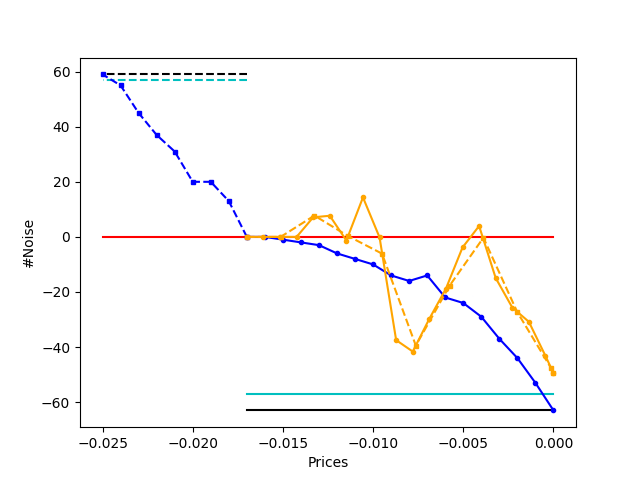
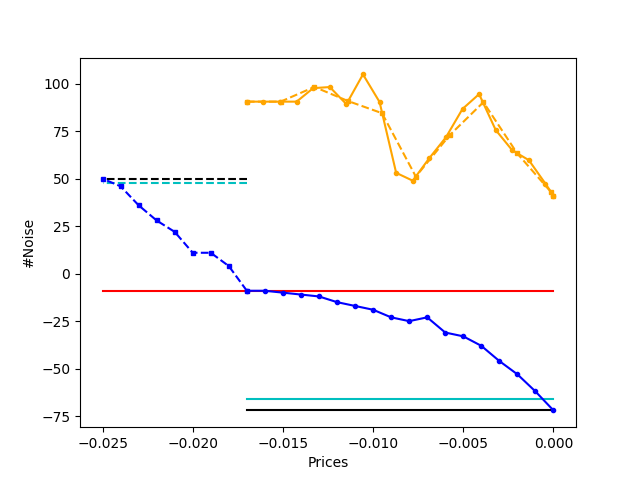
xx

diff --git a/core.py b/core.py
@@ -952,7 +952,6 @@ class Play(object):
         input_dim = self._batch_input_shape[-1].value
         samples = inputs.shape[-1] // input_dim
         LOG.debug("#Samples: {}".format(samples))
-        # states = None
         for j in range(samples):
             # LOG.debug("PID: {}, self.states: {}, states: {} before".format(os.getpid(), sess.run(self.states), states))
             self.reset_states(states)
@@ -2174,23 +2173,24 @@ class MyModel(object):
         _B1, _B2, _B3 = np.array([_B1]*l), np.array([_B2]*l), np.array([_B3]*l)
 
         if plot_target_line is True:
-            fake_B2 = fake_B2 - fake_B1
-            fake_B3 = fake_B3 - fake_B1
-            fake_noise_list = fake_noise_list - fake_B1
-            fake_B1 = fake_B1 - fake_B1
+            # fake_B2 = fake_B2 - fake_B1
+            # fake_B3 = fake_B3 - fake_B1
+            # fake_noise_list = fake_noise_list - fake_B1
+            # fake_B1 = fake_B1 - fake_B1
 
-            _B2 = _B2 - _B1
-            _B3 = _B3 - _B1
-            noise_list = noise_list - _B1
-            _B1 = _B1 - _B1
+            # _B2 = _B2 - _B1
+            # _B3 = _B3 - _B1
+            # noise_list = noise_list - _B1
+            # _B1 = _B1 - _B1
             ax.plot(fake_price_list, fake_B1, 'r', fake_price_list, fake_B2, 'c--', fake_price_list, fake_B3, 'k--')
             ax.plot(price_list, _B1, 'r', price_list, _B2, 'c', price_list, _B3, 'k-')
 
         else:
-            fake_noise_list = fake_noise_list - fake_B1
-            fake_B1 = fake_B1 - fake_B1
-            noise_list = noise_list - _B1
-            _B1 = _B1 - _B1
+            # fake_noise_list = fake_noise_list - fake_B1
+            # fake_B1 = fake_B1 - fake_B1
+            # noise_list = noise_list - _B1
+            # _B1 = _B1 - _B1
+            pass
 
         ax.plot(fake_price_list, fake_noise_list, color=color, marker='s', markersize=3, linestyle='--')
         ax.plot(price_list, noise_list, color=color, marker='.', markersize=6, linestyle='-')
